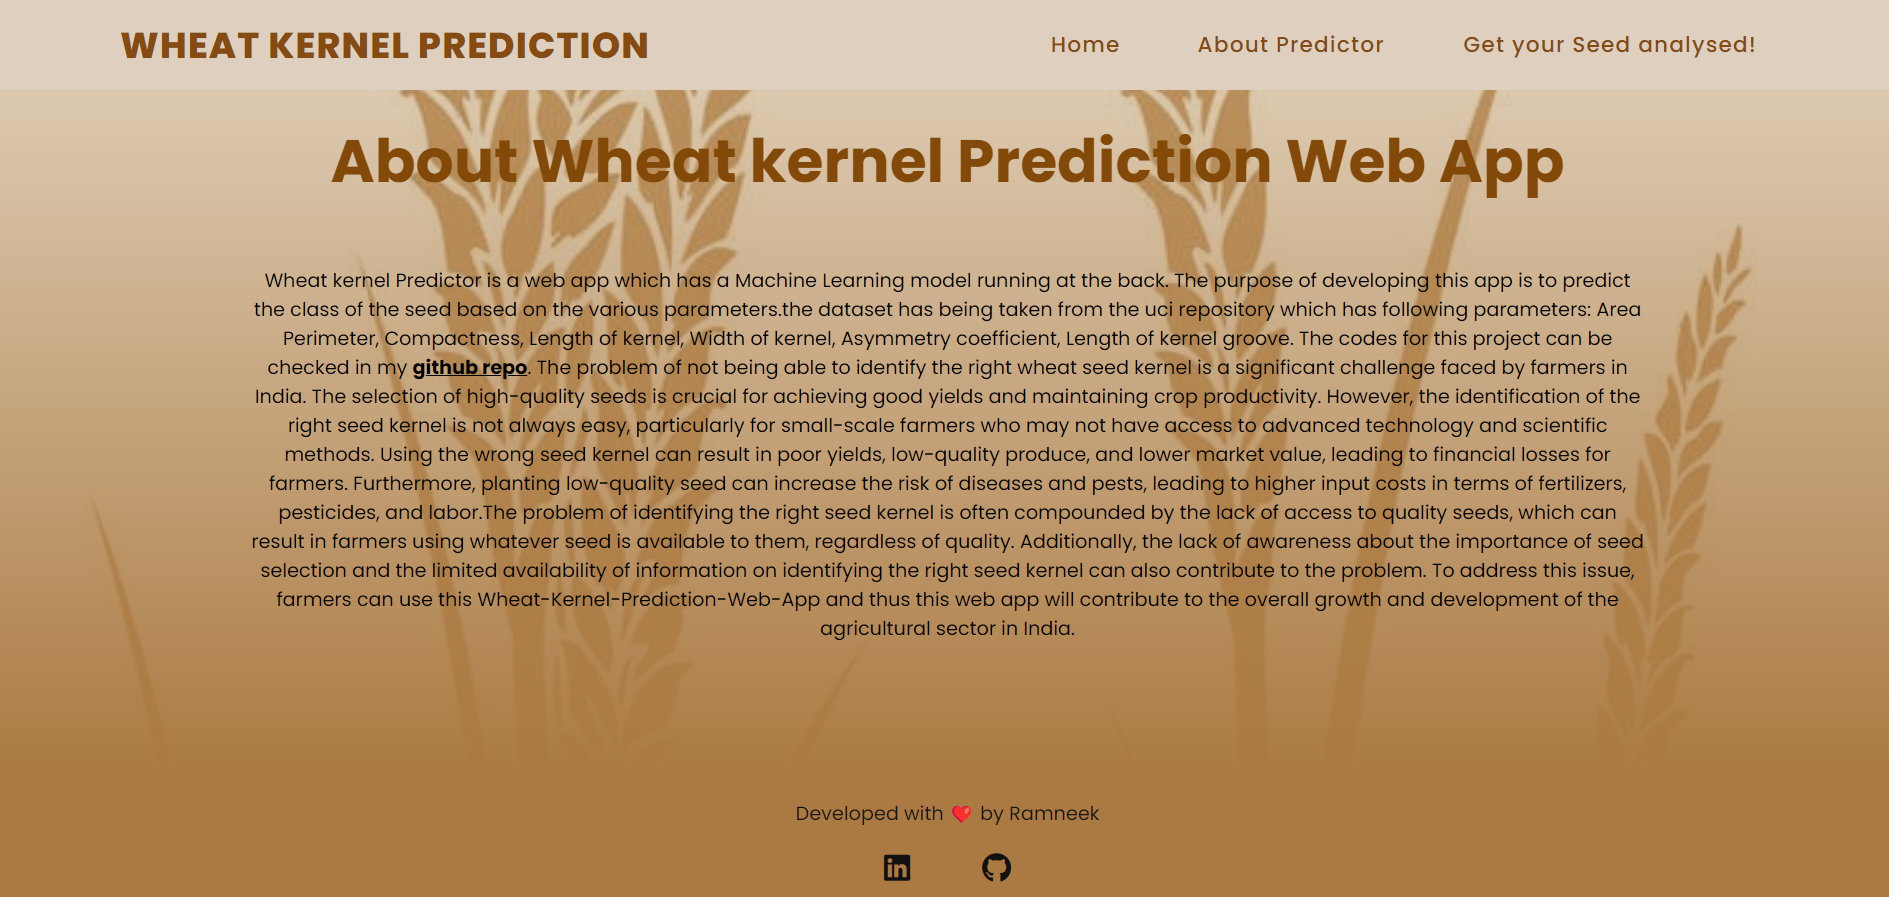
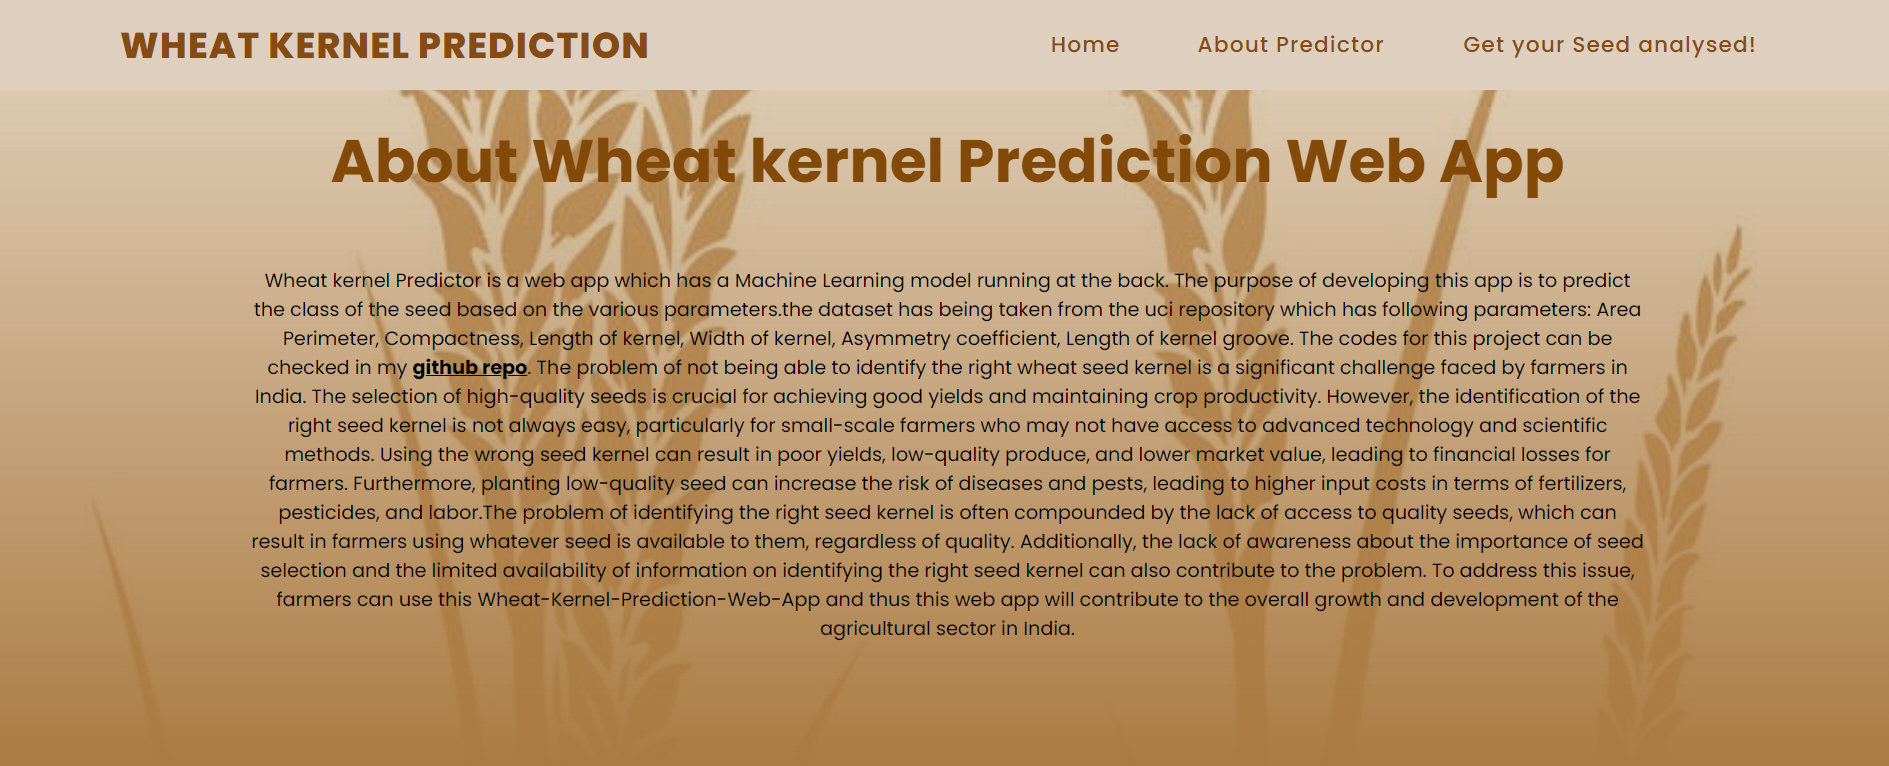
made some changes

diff --git a/Wheat-Kernel-Prediction-Web-App/setup.py b/Wheat-Kernel-Prediction-Web-App/setup.py
@@ -19,8 +19,8 @@ def get_requirements(file_path:str)->List[str]:
 setup(
 name='wheatkernel',
 version='0.0.1',
-author='Ramneek',
-author_email='ramneekkaur0307@gmail.com',
+author='Gurpartap',
+author_email='gurpartap612@gmail.com',
 packages=find_packages(),
 install_requires=get_requirements('requirements.txt')
 

diff --git a/Wheat-Kernel-Prediction-Web-App/README.md b/Wheat-Kernel-Prediction-Web-App/README.md
@@ -8,20 +8,25 @@ Area,Perimeter, Compactness, Length of kernel, Width of kernel, Asymmetry coeffi
 dataset link: https://archive.ics.uci.edu/ml/datasets/seeds
 ## Screenshot of the Web App
 Home Page:
-![Login](https://github.com/meek0307/Wheat-Kernel-Prediction-Web-App/blob/main/Screenshots/1.png?raw=true)
-
-About Section:
-![Login](https://github.com/meek0307/Wheat-Kernel-Prediction-Web-App/blob/main/Screenshots/2.png?raw=true)
+![Login](https://github.com/GURPARTAP001/Wheat-Kernal-prediction-App/blob/main/Wheat-Kernel-Prediction-Web-App/Screenshots/1.png)
 
 Predictor:
-![Login](https://github.com/meek0307/Wheat-Kernel-Prediction-Web-App/blob/main/Screenshots/3.png?raw=true)
+![Login](https://github.com/GURPARTAP001/Wheat-Kernal-prediction-App/blob/main/Wheat-Kernel-Prediction-Web-App/Screenshots/3.png)
 
 Results:
-![Login](https://github.com/meek0307/Wheat-Kernel-Prediction-Web-App/blob/main/Screenshots/4.png?raw=true)
-## Tech Stack Used
-* Front-End: HTML, CSS, Bootstrap
-* Back-End: Flask
-* IDE: Jupyter notebook
+![Login](https://github.com/GURPARTAP001/Wheat-Kernal-prediction-App/blob/main/Wheat-Kernel-Prediction-Web-App/Screenshots/4.png)
+Tech Stack Used
+Front-End: HTML, CSS, Bootstrap
+
+HTML (HyperText Markup Language) is used to create the structure and content of the web pages.
+CSS (Cascading Style Sheets) is used for styling the HTML elements to make the web pages visually appealing.
+Bootstrap is a front-end framework that helps in designing responsive and mobile-first websites quickly and efficiently.
+Back-End: Flask
+
+Flask is a lightweight web framework for Python. It is used to build the back-end of the application, handle HTTP requests, and render the appropriate responses. Flask makes it easy to develop web applications by providing a simple and flexible structure.
+IDE: Jupyter Notebook
+
+Jupyter Notebook is an interactive development environment that allows you to create and share documents containing live code, equations, visualizations, and narrative text. It is particularly useful for data analysis and exploratory data analysis (EDA).
 ## How to run this app
 * First create a virtual environment by using this command:
 * conda create -n venv/ python=3.8.16
@@ -33,6 +38,3 @@ Results:
 ## Notebook Folder
 The notebook Folder consist of EDA on the above dataset.
 
-#### Developed with ❤ by Ramneek
-linkedin handle:
-https://www.linkedin.com/in/ramneekkaur03/
